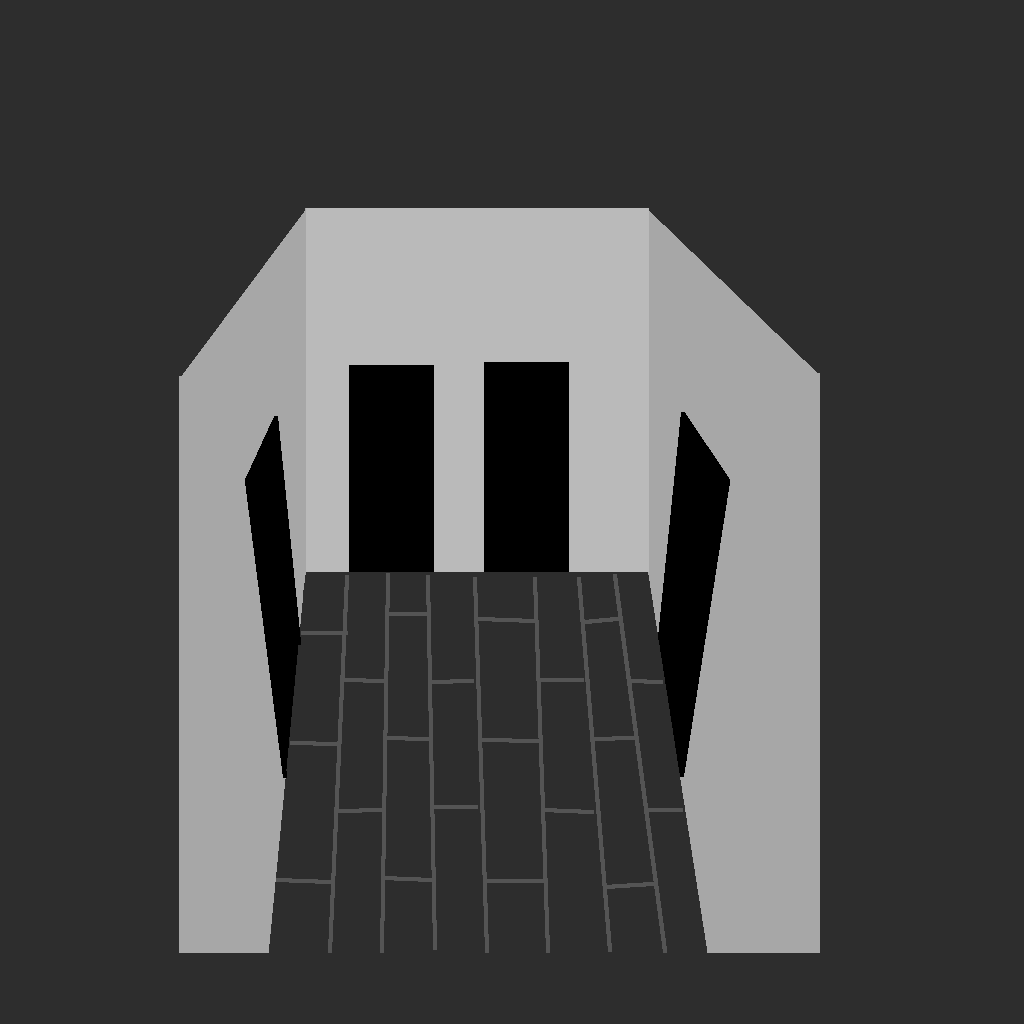
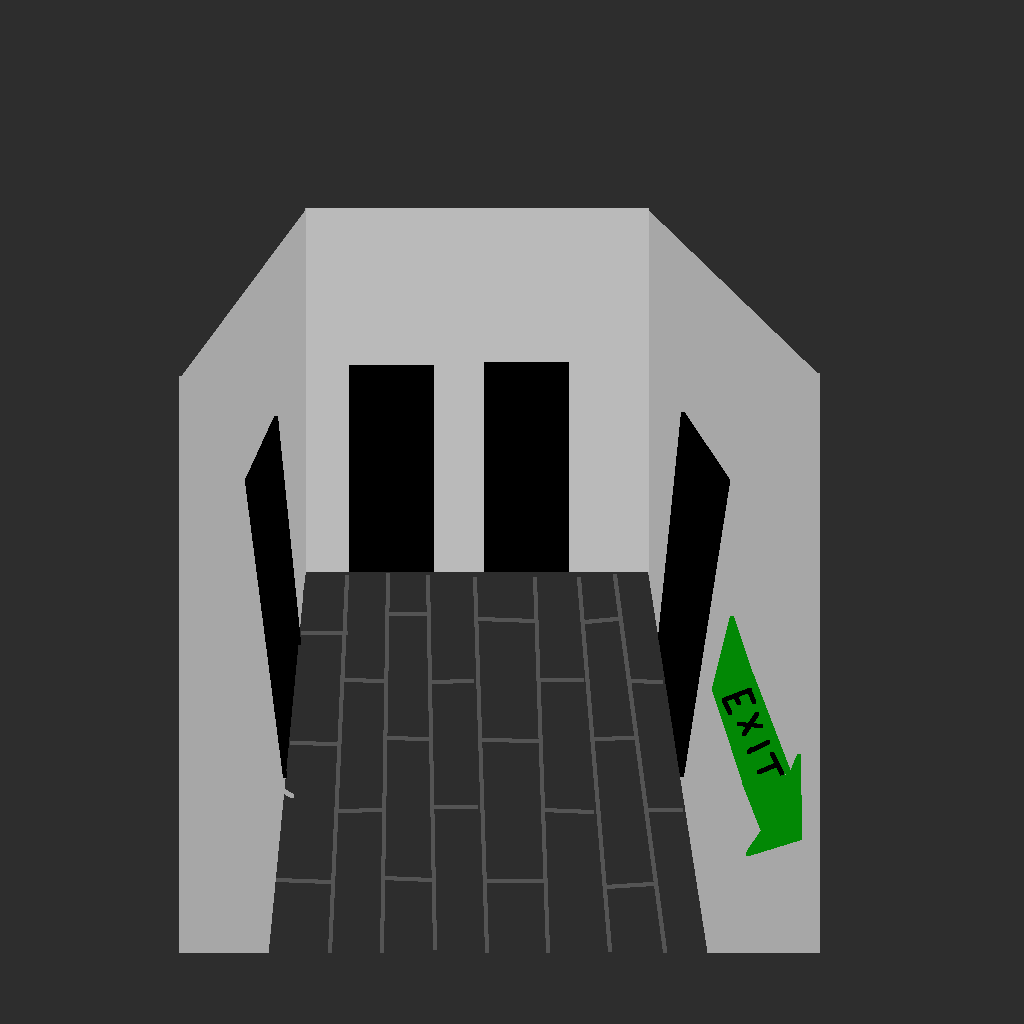
Hitbox bei Gang hinzu und wohnwagen richtig anzeigen

Changed region(s): [[0.6875, 0.5938, 0.7812, 0.8438]]

diff --git a/game/objects/Screens/Play_Screen.py b/game/objects/Screens/Play_Screen.py
@@ -1,4 +1,5 @@
 import pygame
+import random
 from game_variables.game_variables import GameVariables as gv
 from game_variables.game_variables import GameScreens as GameScreens
 from objects.sprites import Bilder
@@ -59,19 +60,30 @@ def play_screen(screen: pygame.Surface, clock: pygame.time.Clock):
 
 
                 if tuer_1_rect.collidepoint(x_Hintergrund, y_Hintergrund):
-                    return GameScreens.RIDDLE1
+                    return random.choice([GameScreens.RIDDLE1, GameScreens.RIDDLE2,
+                                         GameScreens.RIDDLE3, GameScreens.RIDDLE4,
+                                         GameScreens.RIDDLE5])
 
                 elif tuer_2_rect.collidepoint(x_Hintergrund, y_Hintergrund):
-                    return GameScreens.RIDDLE2
+                    return random.choice([GameScreens.RIDDLE1, GameScreens.RIDDLE2,
+                                         GameScreens.RIDDLE3, GameScreens.RIDDLE4,
+                                         GameScreens.RIDDLE5])
 
                 elif tuer_3_rect.collidepoint(x_Hintergrund, y_Hintergrund):
-                    return GameScreens.RIDDLE3
+                    gv.wohnwagen = True
+                    return random.choice([GameScreens.RIDDLE1, GameScreens.RIDDLE2,
+                                         GameScreens.RIDDLE3, GameScreens.RIDDLE4,
+                                         GameScreens.RIDDLE5])
 
                 elif tuer_4_rect.collidepoint(x_Hintergrund, y_Hintergrund):
-                    return GameScreens.RIDDLE4
+                    return random.choice([GameScreens.RIDDLE1, GameScreens.RIDDLE2,
+                                         GameScreens.RIDDLE3, GameScreens.RIDDLE4,
+                                         GameScreens.RIDDLE5])
 
                 elif tuer_5_rect.collidepoint(x_Hintergrund, y_Hintergrund):
-                    return GameScreens.RIDDLE5
+                    return random.choice([GameScreens.RIDDLE1, GameScreens.RIDDLE2,
+                                         GameScreens.RIDDLE3, GameScreens.RIDDLE4,
+                                         GameScreens.RIDDLE5])
 
         pressed_keys = pygame.key.get_pressed()
         if pressed_keys[pygame.K_a] or pressed_keys[pygame.K_LEFT]:
@@ -86,8 +98,8 @@ def play_screen(screen: pygame.Surface, clock: pygame.time.Clock):
         screen.fill("black")
         straße.draw(screen, x_pos_hintergrund, 0, frame_counter)
         player.update_and_draw(
-            max_x_pos=gv.SCREEN_WIDTH / 2 + 1,
-            min_x_pos=gv.SCREEN_WIDTH / 2,
+            max_x_pos=gv.SCREEN_WIDTH / 2 +1,
+            min_x_pos=0,
             max_y_pos=gv.SCREEN_HIGHT,
             min_y_pos=gv.SCREEN_HIGHT / 2 + 100
         )

diff --git a/game/objects/Screens/Gang_1.py b/game/objects/Screens/Gang_1.py
@@ -34,6 +34,7 @@ def Gang_1(screen: pygame.Surface, clock: pygame.time.Clock):
                              gv.SCREEN_HIGHT * 0.20)  # Tür Hinten rechts
     door4_rect = pygame.Rect(gv.SCREEN_WIDTH * 0.64, gv.SCREEN_HIGHT * 0.40, gv.SCREEN_WIDTH * 0.07,
                              gv.SCREEN_HIGHT * 0.35)  # Tür Rechts
+    exit_rect = pygame.Rect(0, gv.SCREEN_HIGHT-100, gv.SCREEN_WIDTH, 10)
 
     while True:
         frame_counter += 1
@@ -48,7 +49,8 @@ def Gang_1(screen: pygame.Surface, clock: pygame.time.Clock):
 
         screen.fill("black")
         raum.draw(screen, 0, 0, frame_counter)
-        player.update_and_draw(gv.SCREEN_WIDTH, 0, gv.SCREEN_HIGHT, 0)
+        player.update_and_draw(gv.SCREEN_WIDTH - 280, gv.SCREEN_WIDTH / 2 / 2,
+                               gv.SCREEN_HIGHT - 50, gv.SCREEN_HIGHT / 2)
 
 
 
@@ -63,6 +65,8 @@ def Gang_1(screen: pygame.Surface, clock: pygame.time.Clock):
             return GameScreens.ROOM_3
         elif player_rect.colliderect(door4_rect):
             return GameScreens.ROOM_4
+        elif player_rect.colliderect(exit_rect):
+            return GameScreens.PLAY
 
         #hittboxen für türen zeichnen
         # pygame.draw.rect(screen, "red", door1_rect, 2)
@@ -70,6 +74,7 @@ def Gang_1(screen: pygame.Surface, clock: pygame.time.Clock):
         # pygame.draw.rect(screen, "green", door3_rect, 2)
         # pygame.draw.rect(screen, "yellow", door4_rect, 2)
         # pygame.draw.rect(screen, "white", player_rect, 2)
+        # pygame.draw.rect(screen, "red", exit_rect)
 
 
         pygame.display.flip()

diff --git a/game/objects/Screens/riddle1_Screen.py b/game/objects/Screens/riddle1_Screen.py
@@ -119,7 +119,10 @@ def riddle1_screen(screen, clock):
                     if player_input[index] != showing_colors[index]:
                         break
                     if player_input == showing_colors:
-                        return GameScreens.GANG1
+                        if gv.wohnwagen == True:
+                            return GameScreens.WAGEN
+                        else:
+                            return GameScreens.GANG1
             else:
                 pygame.display.flip()
                 clock.tick(gv.FPS)

diff --git a/game/objects/Screens/riddle2_Screen.py b/game/objects/Screens/riddle2_Screen.py
@@ -111,7 +111,10 @@ def riddle2_screen(screen: pygame.Surface, clock: pygame.time.Clock):
                             schalter[2] = True
 
                 if schalter == [True, True, True, True]:
-                    return GameScreens.GANG1
+                    if gv.wohnwagen == True:
+                        return GameScreens.WAGEN
+                    else:
+                        return GameScreens.GANG1
 
                 screen.fill("black")
 

diff --git a/game/objects/Screens/riddle3_Screen.py b/game/objects/Screens/riddle3_Screen.py
@@ -27,7 +27,10 @@ def riddle3_screen(screen, clock):
                     return GameScreens.PLAY
                 if event.key == pygame.K_RETURN:
                     if eingabe == zahl:
-                        return GameScreens.WAGEN
+                        if gv.wohnwagen == True:
+                            return GameScreens.WAGEN
+                        else:
+                            return GameScreens.GANG1
                     else:
                         screen.fill("black")
                         screen.blit(text, (300, 250))

diff --git a/game/objects/Screens/riddle4_Screen.py b/game/objects/Screens/riddle4_Screen.py
@@ -23,7 +23,10 @@ def riddle4_screen(screen, clock):
                 for i in range(len(buttons)):
                     if buttons[i].collidepoint(event.pos):
                         if i == richtiger:
-                            return GameScreens.GANG1
+                            if gv.wohnwagen == True:
+                                return GameScreens.WAGEN
+                            else:
+                                return GameScreens.GANG1
 
         screen.fill("black")
         text = gv.FONT_MIDDLE.render("Finde den richtigen Knopf",True,

diff --git a/game/objects/Screens/riddle5_Screen.py b/game/objects/Screens/riddle5_Screen.py
@@ -18,7 +18,10 @@ def riddle5_screen(screen, clock):
                     return GameScreens.PLAY
             if event.type == pygame.MOUSEBUTTONDOWN:
                 if ziel.collidepoint(event.pos):
-                    return GameScreens.GANG1
+                    if gv.wohnwagen == True:
+                        return GameScreens.WAGEN
+                    else:
+                        return GameScreens.GANG1
 
         aktuelle_zeit = pygame.time.get_ticks()
 

diff --git a/game/game_variables/game_variables.py b/game/game_variables/game_variables.py
@@ -7,6 +7,8 @@ class GameVariables:
     player_size = 32
     player_v = 5
 
+    wohnwagen: bool = False
+
     coins = 0
     player_x = SCREEN_HIGHT / 2 - player_size / 2
     player_y = SCREEN_HIGHT - player_size - 10